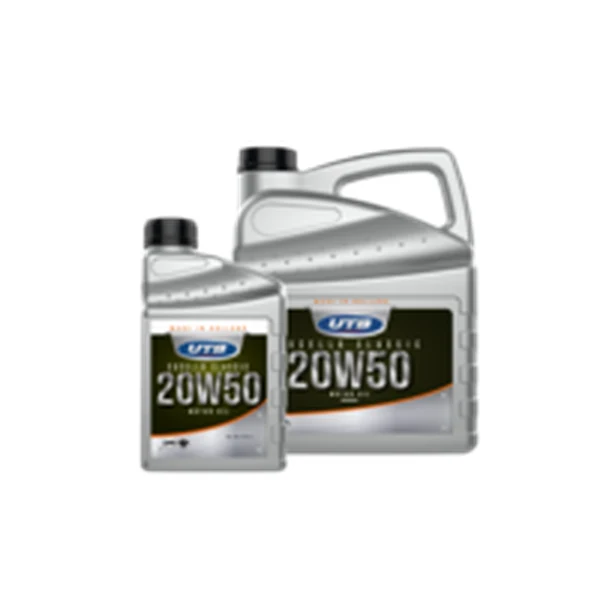
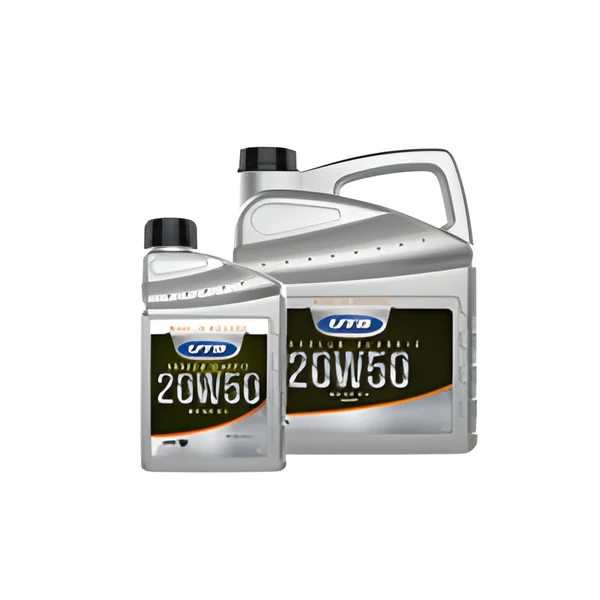
Verktøy for oppskalering av produktbilder (Real-ESRGAN, finner ekte oppløsning først); Excello Classic 20W-50 oppskalert
Claude-Session: https://claude.ai/code/session_01HrddjfsEsjoL7f32QJY5CH

diff --git a/verktoy/oppskaler.py b/verktoy/oppskaler.py
@@ -1,0 +1,162 @@
+#!/usr/bin/env python3
+"""
+Oppskalerer produktbilder med Real-ESRGAN (x4plus) på CPU, uten basicsr.
+
+Bruk (fra roten av repoet):
+  pip install --break-system-packages torch --index-url https://download.pytorch.org/whl/cpu
+  python3 verktoy/oppskaler.py --minutter 100          # behandler så mange bilder som rekkes, verste først
+  python3 verktoy/oppskaler.py --liste                 # viser hva som gjenstår
+  python3 verktoy/oppskaler.py --fil utb/bilder/x.webp # ett bilde
+
+Slik virker det:
+- Kandidater: bilder i mappene under MAPPER med lengste side under 1000 px, som ikke står i bilder-oppskalert.json.
+- Mange bilder er små originaler som er forstørret uskarpt én gang før (f.eks. UTB Excello Classic). For hvert bilde
+  finner verktøyet hvor mye ekte oppløsning det har: det krymper bildet og sjekker om noe går tapt (PSNR over 38 dB).
+  Bildet krympes til den ekte størrelsen før oppskaleringen, ellers forsterker modellen uskarpheten og lager «krusedull-tekst».
+- Resultatet lagres med høyst 2,5 × den ekte oppløsningen og høyst 1200 px (men aldri mindre enn før), så zoomen i /produkter ikke viser oppdiktede detaljer.
+- Gjennomsiktighet beholdes (alfakanalen skaleres for seg). Samme filnavn, så katalogen trenger ingen endring.
+- bilder-oppskalert.json lister hva som er gjort (med sjekksum av originalen), så verktøyet kan kjøres flere ganger og fortsette der det slapp.
+  Originalene ligger i git-historikken.
+"""
+import argparse, hashlib, json, os, sys, time, urllib.request
+import numpy as np
+from PIL import Image
+
+ROOT = os.path.dirname(os.path.dirname(os.path.abspath(__file__)))
+MAPPER = ['le/bilder', 'utb/bilder', 'vickers/bilder', 'chesterton/produktbilder', 'chesterton/bilder', 'perma/bilder', 'rpi/bilder']
+MANIFEST = os.path.join(ROOT, 'bilder-oppskalert.json')
+MODELL_URL = 'https://github.com/xinntao/Real-ESRGAN/releases/download/v0.1.0/RealESRGAN_x4plus.pth'
+MODELL = os.path.join(os.path.expanduser('~'), '.cache', 'realesrgan', 'RealESRGAN_x4plus.pth')
+GRENSE = 1000      # bilder med lengste side under dette behandles
+MAKS = 1200        # største lagrede bilde
+FAKTOR = 2.5       # høyst 2,5 × den ekte oppløsningen
+
+import torch, torch.nn as nn, torch.nn.functional as F
+torch.set_num_threads(os.cpu_count() or 2)
+
+class RDB(nn.Module):
+    def __init__(s, nf=64, gc=32):
+        super().__init__()
+        s.conv1 = nn.Conv2d(nf, gc, 3, 1, 1); s.conv2 = nn.Conv2d(nf + gc, gc, 3, 1, 1); s.conv3 = nn.Conv2d(nf + 2 * gc, gc, 3, 1, 1)
+        s.conv4 = nn.Conv2d(nf + 3 * gc, gc, 3, 1, 1); s.conv5 = nn.Conv2d(nf + 4 * gc, nf, 3, 1, 1); s.l = nn.LeakyReLU(0.2, True)
+    def forward(s, x):
+        x1 = s.l(s.conv1(x)); x2 = s.l(s.conv2(torch.cat((x, x1), 1))); x3 = s.l(s.conv3(torch.cat((x, x1, x2), 1)))
+        x4 = s.l(s.conv4(torch.cat((x, x1, x2, x3), 1))); return s.conv5(torch.cat((x, x1, x2, x3, x4), 1)) * 0.2 + x
+class RRDB(nn.Module):
+    def __init__(s, nf=64, gc=32):
+        super().__init__(); s.rdb1 = RDB(nf, gc); s.rdb2 = RDB(nf, gc); s.rdb3 = RDB(nf, gc)
+    def forward(s, x): return s.rdb3(s.rdb2(s.rdb1(x))) * 0.2 + x
+class Net(nn.Module):
+    def __init__(s, nf=64, nb=23, gc=32):
+        super().__init__()
+        s.conv_first = nn.Conv2d(3, nf, 3, 1, 1); s.body = nn.Sequential(*[RRDB(nf, gc) for _ in range(nb)]); s.conv_body = nn.Conv2d(nf, nf, 3, 1, 1)
+        s.conv_up1 = nn.Conv2d(nf, nf, 3, 1, 1); s.conv_up2 = nn.Conv2d(nf, nf, 3, 1, 1); s.conv_hr = nn.Conv2d(nf, nf, 3, 1, 1)
+        s.conv_last = nn.Conv2d(nf, 3, 3, 1, 1); s.l = nn.LeakyReLU(0.2, True)
+    def forward(s, x):
+        f = s.conv_first(x); f = f + s.conv_body(s.body(f))
+        f = s.l(s.conv_up1(F.interpolate(f, scale_factor=2, mode='nearest'))); f = s.l(s.conv_up2(F.interpolate(f, scale_factor=2, mode='nearest')))
+        return s.conv_last(s.l(s.conv_hr(f)))
+
+_net = None
+def net():
+    global _net
+    if _net is None:
+        if not os.path.exists(MODELL):
+            os.makedirs(os.path.dirname(MODELL), exist_ok=True)
+            print('Laster ned modellen …', flush=True); urllib.request.urlretrieve(MODELL_URL, MODELL)
+        m = Net(); sd = torch.load(MODELL, map_location='cpu')
+        m.load_state_dict(sd.get('params_ema', sd.get('params', sd)), strict=True); m.eval(); _net = m
+    return _net
+
+def sr(rgb, tile=192, pad=10):
+    x = torch.from_numpy(rgb.astype(np.float32) / 255.).permute(2, 0, 1)[None]
+    _, _, h, w = x.shape; out = torch.zeros(1, 3, h * 4, w * 4)
+    with torch.no_grad():
+        for y0 in range(0, h, tile):
+            for x0 in range(0, w, tile):
+                y1, x1 = min(y0 + tile, h), min(x0 + tile, w); ya, xa = max(y0 - pad, 0), max(x0 - pad, 0); yb, xb = min(y1 + pad, h), min(x1 + pad, w)
+                o = net()(x[:, :, ya:yb, xa:xb])
+                out[:, :, y0 * 4:y1 * 4, x0 * 4:x1 * 4] = o[:, :, (y0 - ya) * 4:(y0 - ya) * 4 + (y1 - y0) * 4, (x0 - xa) * 4:(x0 - xa) * 4 + (x1 - x0) * 4]
+    return (out[0].permute(1, 2, 0).clamp(0, 1).numpy() * 255).round().astype('uint8')
+
+def psnr(a, b):
+    d = np.mean((a.astype(np.float32) - b.astype(np.float32)) ** 2)
+    return 99.0 if d == 0 else 10 * np.log10(255 ** 2 / d)
+
+def ekte_faktor(rgb):
+    """Hvor mye kan bildet krympes uten å miste noe? (1 = ingenting å hente, 0.35 = sterkt forstørret før)"""
+    im = Image.fromarray(rgb); best = 1.0
+    for f in (0.75, 0.6, 0.5, 0.42, 0.35):
+        w, h = max(8, round(im.width * f)), max(8, round(im.height * f))
+        tilbake = np.asarray(im.resize((w, h), Image.LANCZOS).resize(im.size, Image.LANCZOS))
+        if psnr(rgb, tilbake) >= 38: best = f
+        else: break
+    return best
+
+def sjekksum(p):
+    return hashlib.sha1(open(p, 'rb').read()).hexdigest()[:16]
+
+def les_manifest():
+    try: return json.load(open(MANIFEST))
+    except Exception: return {'om': 'Bilder som er oppskalert med verktoy/oppskaler.py (Real-ESRGAN). Originalene ligger i git-historikken.', 'bilder': {}}
+
+def kandidater(man):
+    out = []
+    for d in MAPPER:
+        full = os.path.join(ROOT, d)
+        if not os.path.isdir(full): continue
+        for f in sorted(os.listdir(full)):
+            if not f.lower().endswith(('.webp', '.png', '.jpg', '.jpeg')): continue
+            rel = d + '/' + f
+            if rel in man['bilder']: continue
+            try: im = Image.open(os.path.join(full, f))
+            except Exception: continue
+            if max(im.size) < GRENSE: out.append((max(im.size), rel))
+    out.sort()
+    return [r for _, r in out]
+
+def behandle(rel):
+    p = os.path.join(ROOT, rel); im = Image.open(p)
+    har_alfa = im.mode in ('RGBA', 'LA', 'P') and im.convert('RGBA').getchannel('A').getextrema()[0] < 250
+    rgba = np.asarray(im.convert('RGBA')); al = rgba[:, :, 3]; m = al[..., None] / 255.0
+    rgb = (rgba[:, :, :3] * m + 255 * (1 - m)).astype('uint8')
+    f = ekte_faktor(rgb)
+    if f < 1:
+        w, h = max(8, round(im.width * f)), max(8, round(im.height * f))
+        rgb_s = np.asarray(Image.fromarray(rgb).resize((w, h), Image.LANCZOS))
+    else: rgb_s = rgb
+    up = sr(rgb_s)
+    # Aldri mindre enn før (uskarpe bilder blir skarpere i samme størrelse), høyst 2,5 × ekte oppløsning og 1200 px
+    mal = max(max(im.size), min(MAKS, round(FAKTOR * max(rgb_s.shape[:2]))))
+    ut = Image.fromarray(up)
+    if har_alfa:
+        alu = Image.fromarray(al).resize(ut.size, Image.LANCZOS); ut = ut.convert('RGBA'); ut.putalpha(alu)
+    ut.thumbnail((mal, mal), Image.LANCZOS)
+    if f >= 1 and max(ut.size) <= max(im.size):   # skarpt og allerede stort nok: ingen gevinst
+        return None, f
+    if rel.lower().endswith('.webp'): ut.save(p, 'WEBP', quality=88, method=6)
+    elif rel.lower().endswith('.png'): ut.save(p, 'PNG', optimize=True)
+    else: ut.convert('RGB').save(p, 'JPEG', quality=90)
+    return (im.size, ut.size), f
+
+def main():
+    ap = argparse.ArgumentParser(); ap.add_argument('--minutter', type=float, default=0); ap.add_argument('--liste', action='store_true'); ap.add_argument('--fil')
+    a = ap.parse_args(); man = les_manifest()
+    todo = [a.fil] if a.fil else kandidater(man)
+    if a.liste:
+        print(len(todo), 'bilder gjenstår'); [print(' ', r) for r in todo]; return
+    slutt = time.time() + a.minutter * 60 if a.minutter else None; n = 0; t0 = time.time()
+    for rel in todo:
+        if slutt and time.time() > slutt - 240: break     # la det være tid igjen til commit
+        t = time.time()
+        try: res, f = behandle(rel)
+        except Exception as e:
+            print('FEIL', rel, e, flush=True); man['bilder'][rel] = {'feil': str(e)[:200], 'dato': time.strftime('%Y-%m-%d')}; continue
+        man['bilder'][rel] = {'dato': time.strftime('%Y-%m-%d'), 'ekte': f, 'fra': list(res[0]) if res else None, 'til': list(res[1]) if res else None, 'sha': sjekksum(os.path.join(ROOT, rel))}
+        json.dump(man, open(MANIFEST, 'w'), ensure_ascii=False, indent=1)
+        n += 1; print(('ok  ' if res else 'lik '), rel, res, 'ekte=%.2f' % f, '%.0fs' % (time.time() - t), flush=True)
+    rest = len(kandidater(man))
+    print('\nBehandlet %d bilder på %.0f min. Gjenstår: %d.' % (n, (time.time() - t0) / 60, rest))
+
+if __name__ == '__main__':
+    main()

diff --git a/README.md b/README.md
@@ -96,4 +96,5 @@ Produktbildene lagres med lengste side opptil 1200 px (webp), så de er skarpe p
 - Vickers Oils: hentet fra produktsidenes hovedbilde (og:image) på vickers-oil.com.
 - LE og UTB: leverandørene har ikke større bilder på nettsidene sine enn det vi har (mange LE-tilbehørsbilder er under 300 px hos LE). Bedre bilder må bes om fra leverandøren.
 - Oppskalert med KI (Real-ESRGAN x4plus, 18.11.2026), lagret høyst 2,5 × originalen så zoomen ikke viser oppdiktede detaljer: 28 LE-bilder i le/bilder (tilbehør som Xtract-adaptere, Xclude-adaptere, Xport Classic/Flex/Futura, OilSafe-utstyr, Viper, 1-Month) og utb/bilder/utb-fat.webp. Originalene ligger i git-historikken. Får vi bedre bilder fra leverandøren, erstatt filene med samme navn.
+- Resten oppskaleres med `verktoy/oppskaler.py` (se toppen av fila). Det finner selv hvor mye ekte oppløsning hvert bilde har, krymper uskarpe bilder først (gir mye renere tekst) og fører alt i `bilder-oppskalert.json`. Kan kjøres flere ganger; det fortsetter der det slapp. Krever torch (CPU) og laster ned modellen selv. Et bilde som ble dårligere: hent originalen fra git (`git log -- <fil>`) og la oppføringen stå i bilder-oppskalert.json, så blir det ikke behandlet igjen.
 Katalogen viser små bilder høyst 1,5 ganger naturlig størrelse (minst 240 px), og zoomen forstørrer bare så langt bildet har oppløsning til.
